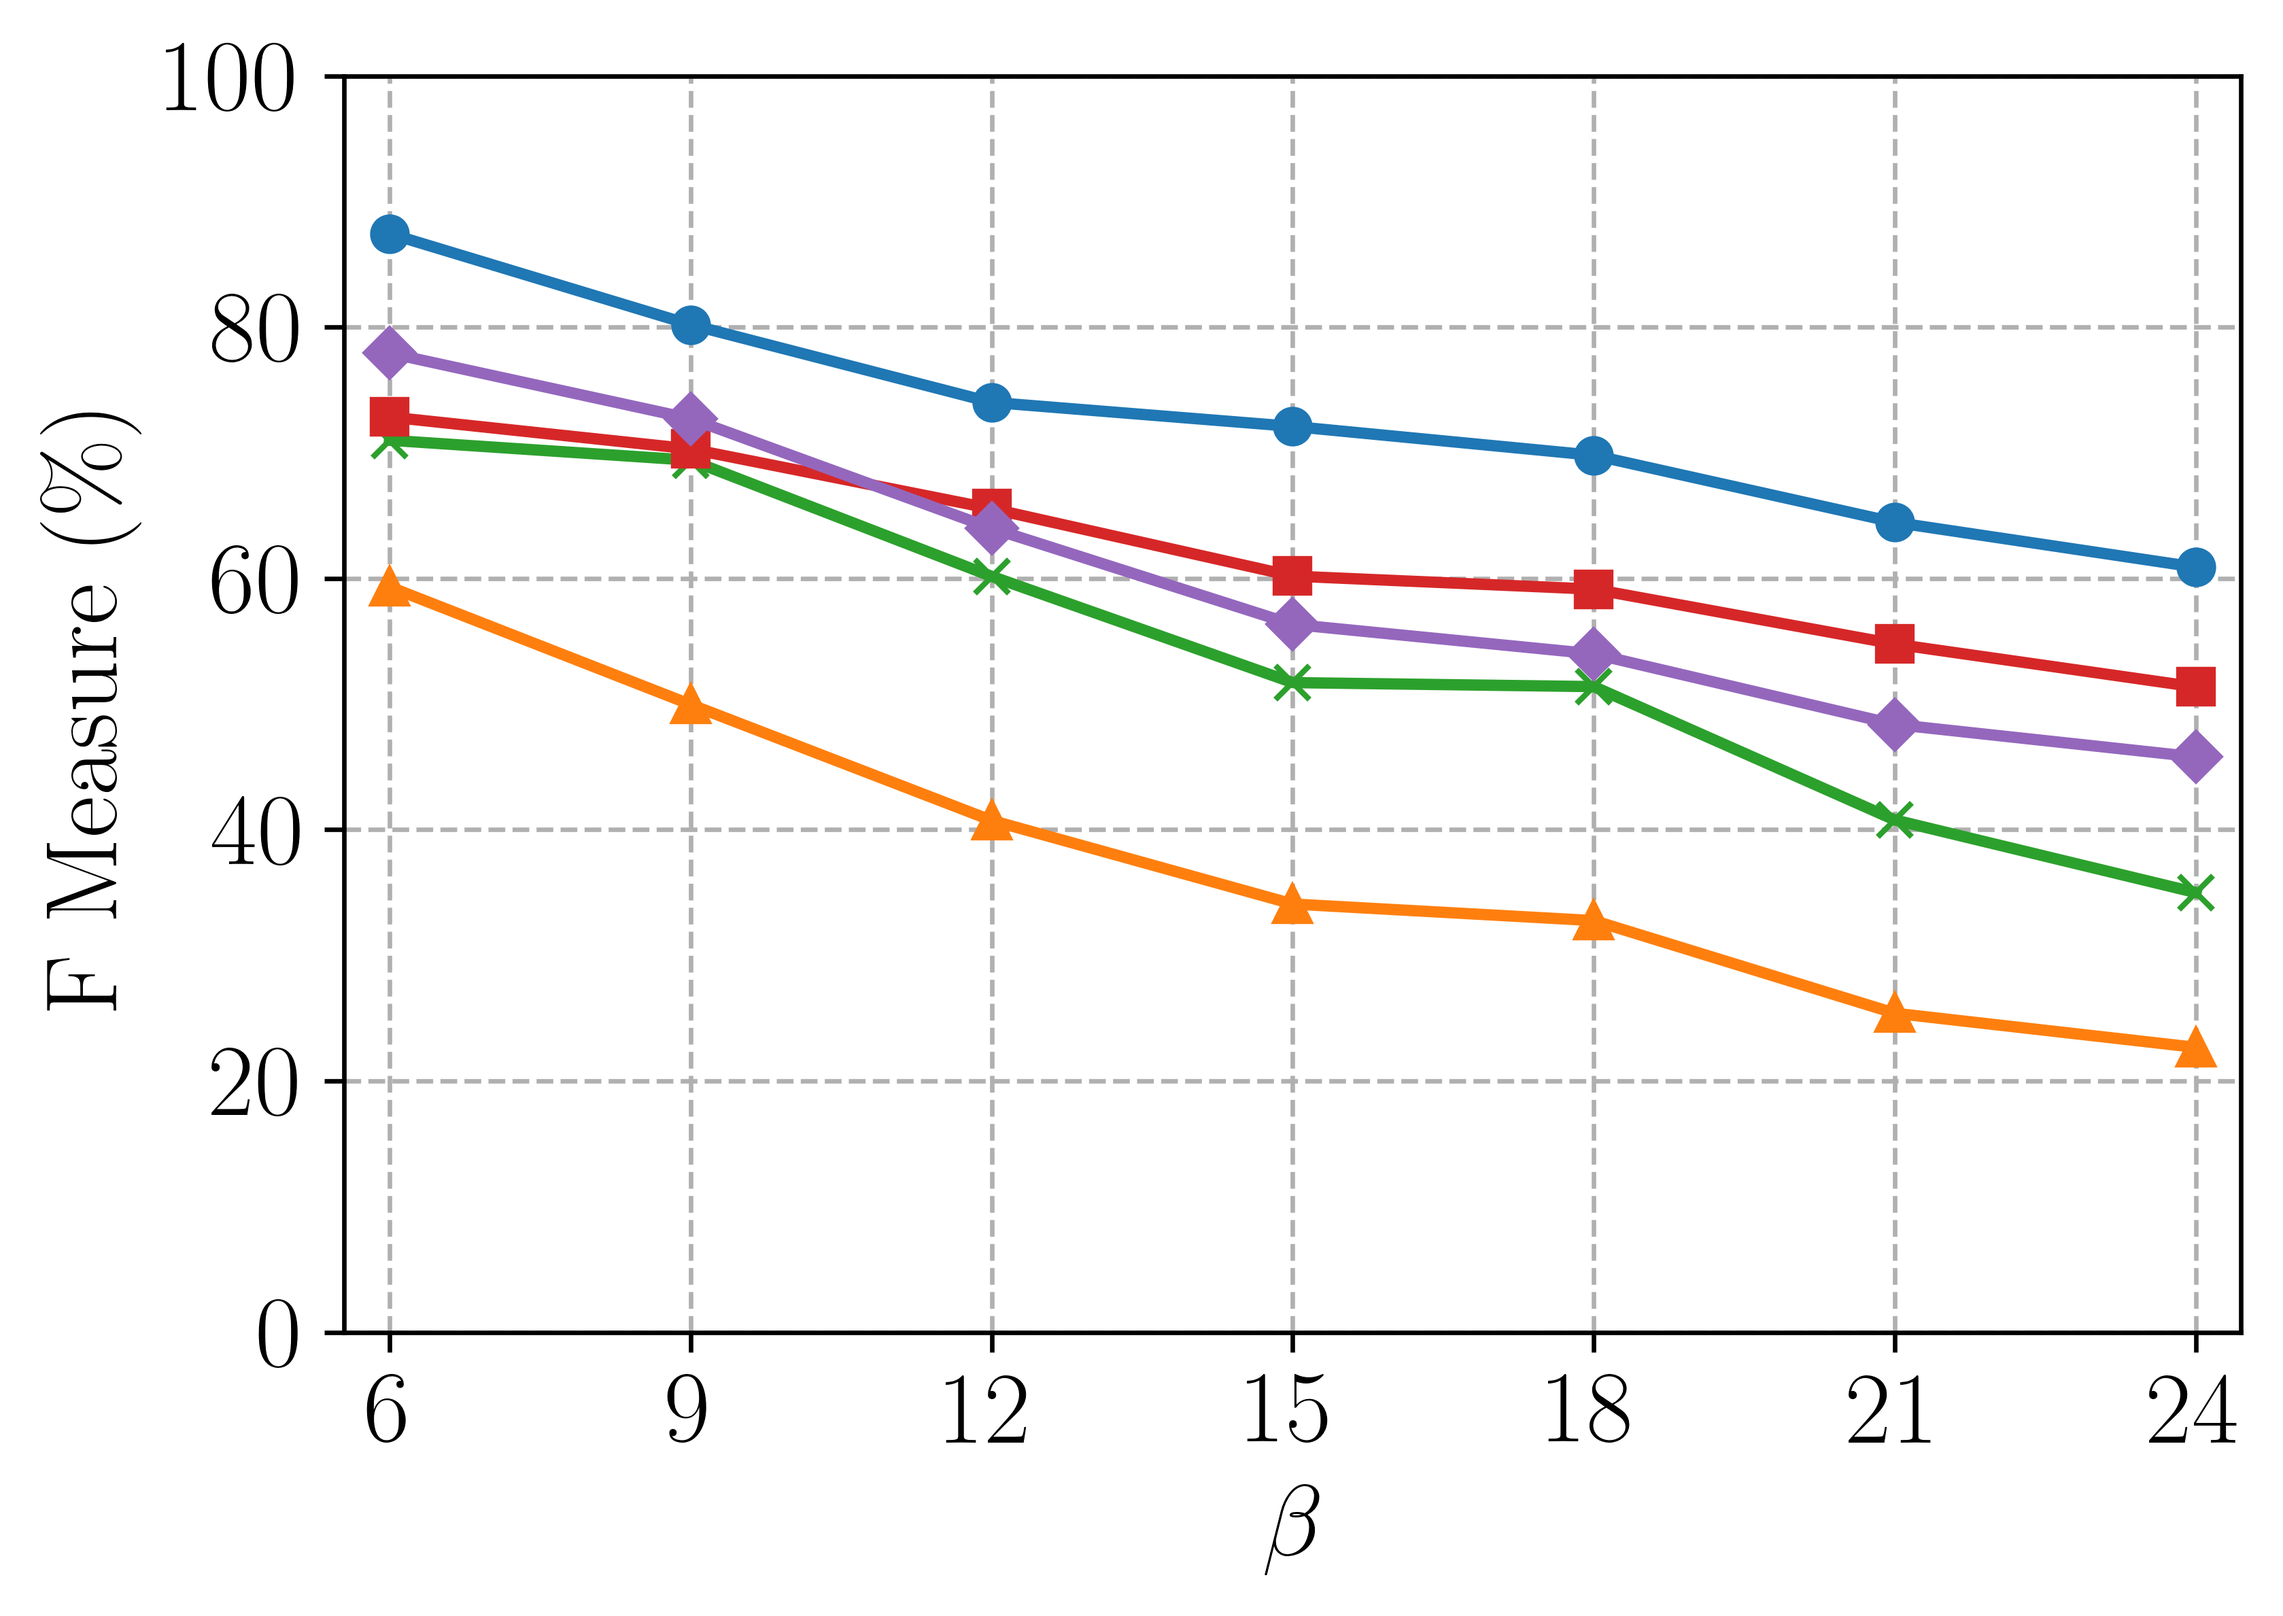
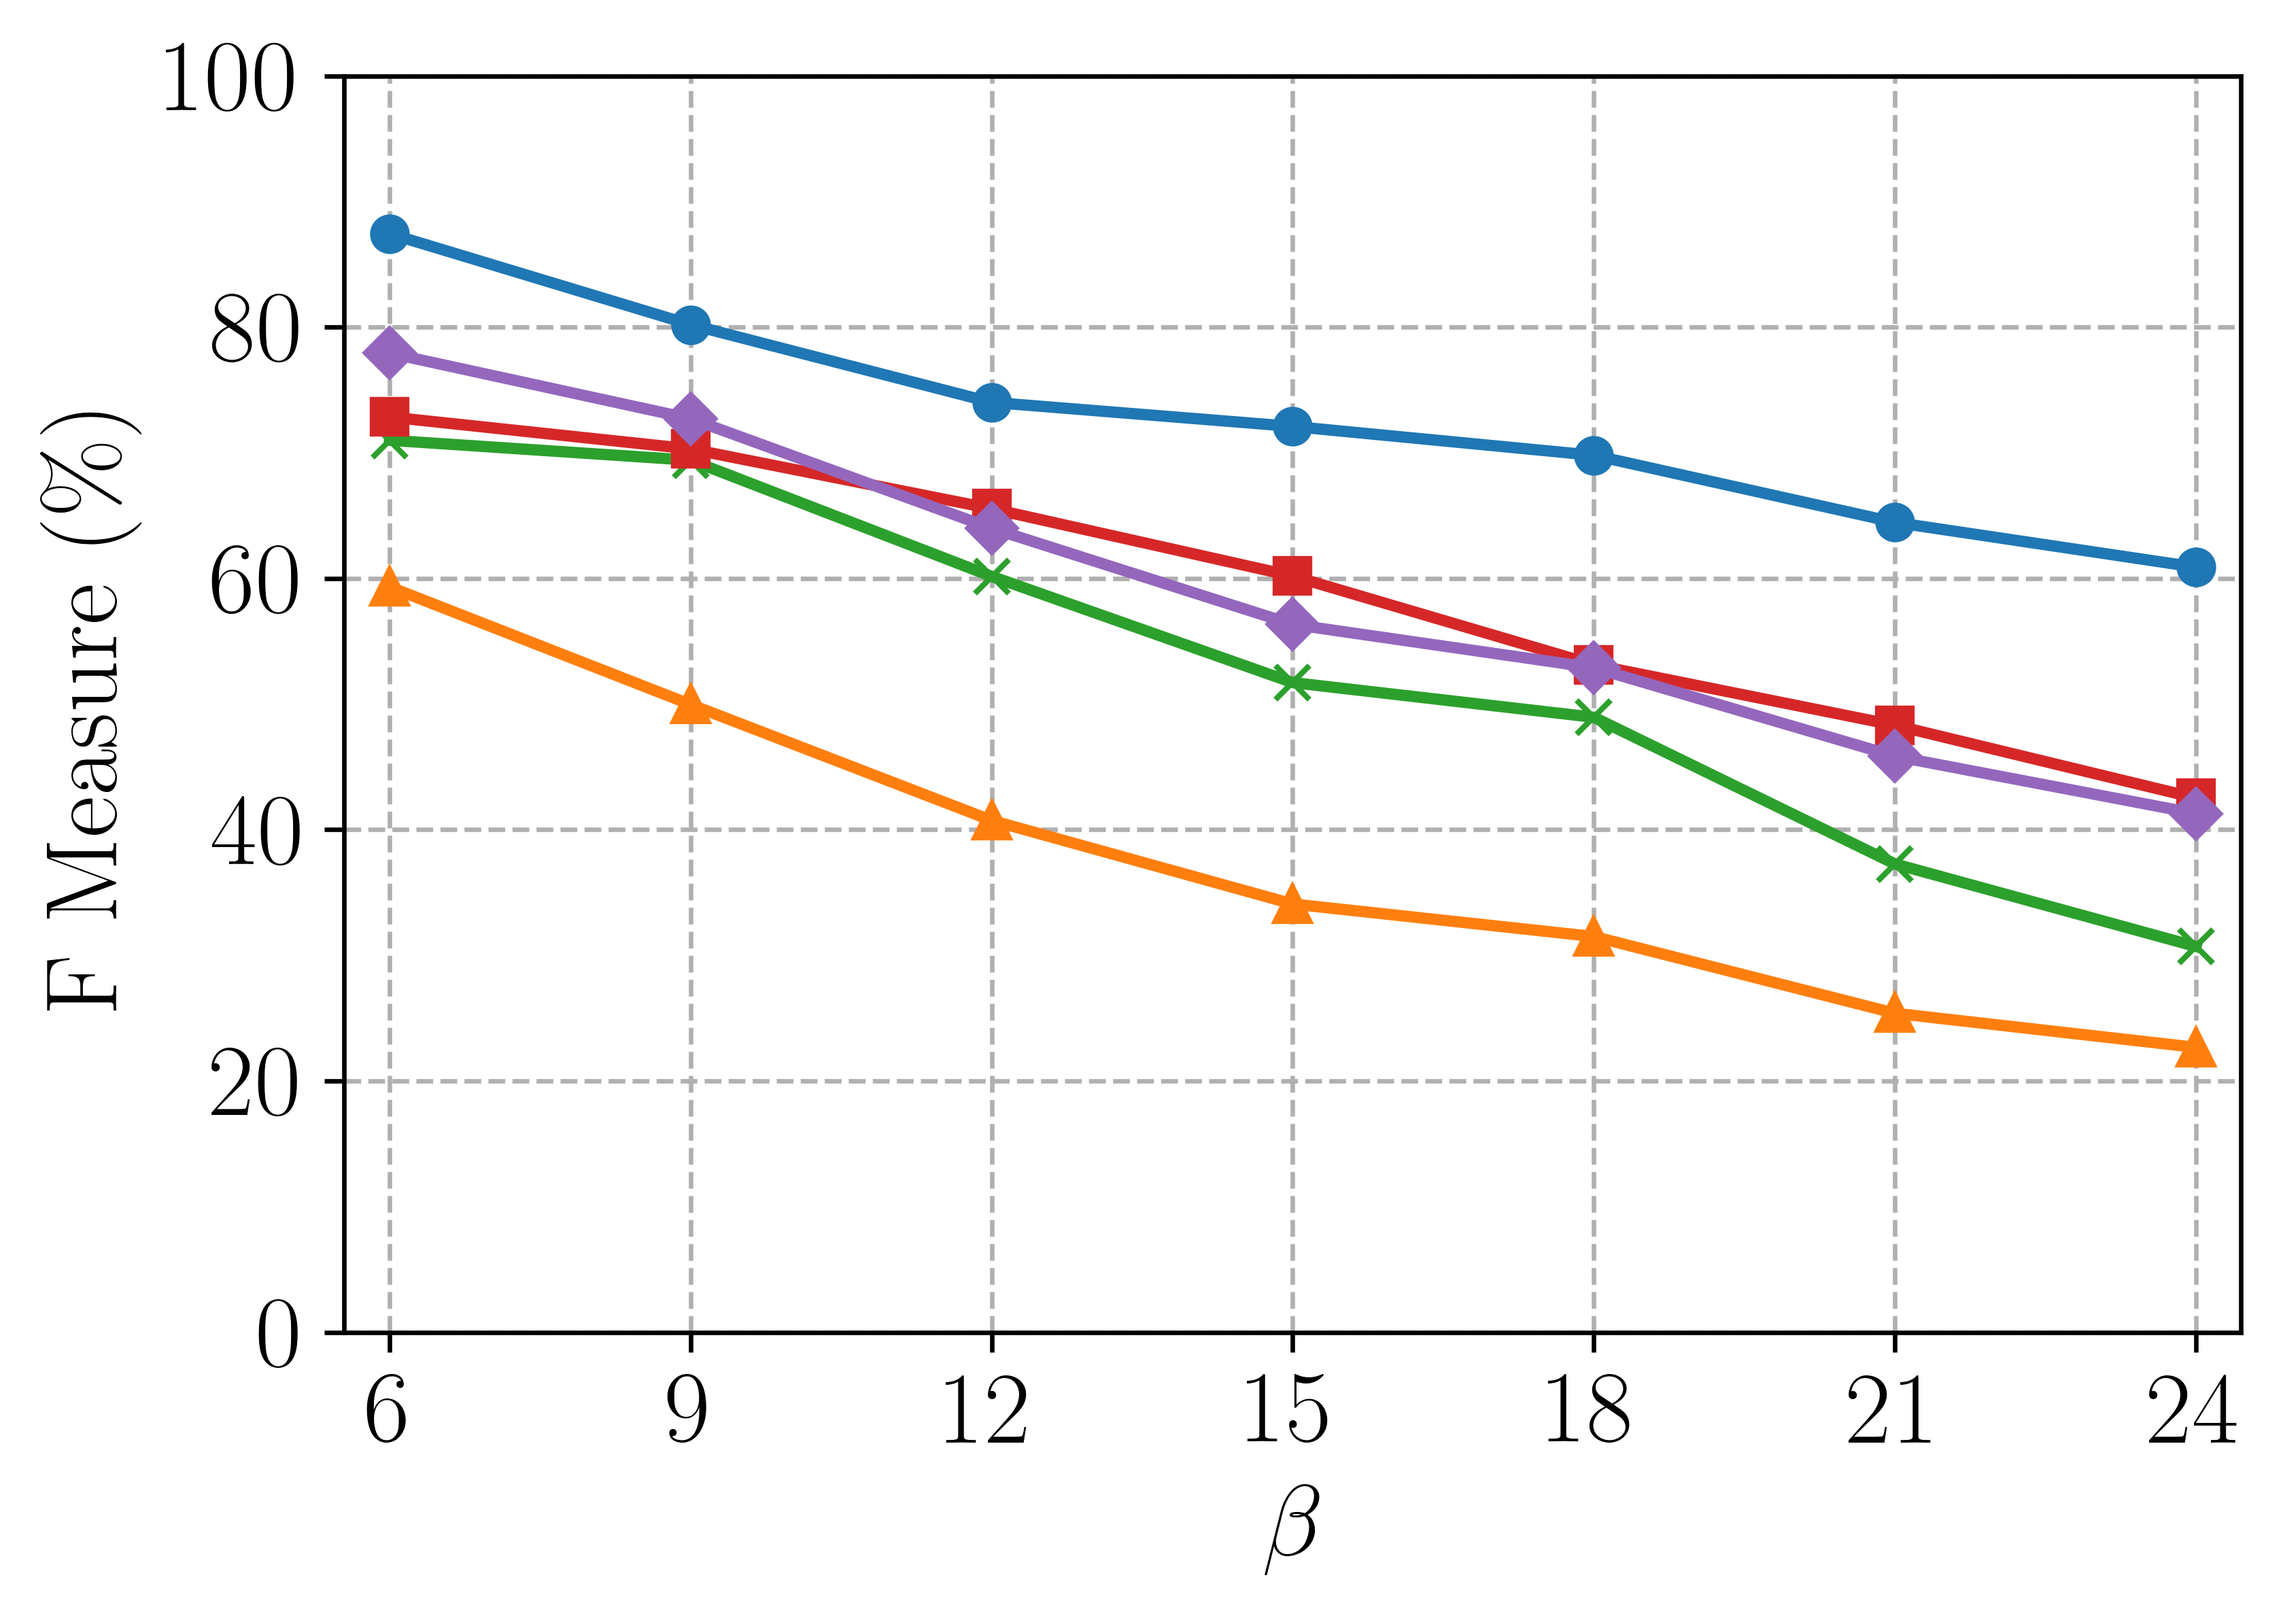
adjusted

Changed region(s): [[0.5575, 0.3424, 0.9911, 0.5915], [0.5884, 0.5604, 0.7433, 0.5915], [0.7433, 0.5915, 0.8052, 0.6226]]

diff --git a/draw.py b/draw.py
@@ -236,10 +236,10 @@ def main():
     y_pre_beta = np.array(
         [
             [88.2, 80.2, 76.6, 72.1, 69.8, 66.0, 63.5],
-            [63.6, 62.1, 63.0, 51.8, 42.4, 32.1, 29.8],
-            [82.7, 78.2, 69.4, 61.9, 58.7, 54.7, 51.5],
-            [84.2, 78.6, 72.1, 65.6, 62.3, 58.5, 55.1],
-            [89.2, 82.2, 73.6, 66.1, 63.8, 59.0, 56.5],
+            [63.6, 62.1, 63.0, 51.8, 38.4, 32.1, 29.8],
+            [82.7, 78.2, 69.4, 61.9, 52.7, 43.7, 36.5],
+            [84.2, 78.6, 72.1, 65.6, 50.3, 45.5, 38.1],
+            [89.2, 82.2, 73.6, 66.1, 60.8, 52.0, 44.5],
         ]
     )
     y_recall_beta = np.array(
@@ -269,20 +269,20 @@ def main():
     x_beta = np.arange(6, 25, 3)
     y_pre_beta = np.array(
         [
-            [88.2, 80.2, 76.6, 72.1, 69.8, 66.0, 63.5],
-            [63.6, 62.1, 63.0, 51.8, 42.4, 32.1, 29.8],
-            [82.7, 78.2, 69.4, 61.9, 58.7, 54.7, 51.5],
-            [84.2, 78.6, 72.1, 65.6, 62.3, 58.5, 55.1],
-            [89.2, 82.2, 73.6, 66.1, 63.8, 59.0, 56.5],
+            [86.2, 79.2, 77.6, 72.1, 64.8, 62.0, 59.5],
+            [63.6, 60.1, 48.0, 37.8, 30.4, 22.1, 19.8],
+            [80.7, 76.2, 67.4, 59.9, 57.7, 54.7, 51.5],
+            [79.2, 73.6, 67.1, 60.6, 57.3, 53.5, 50.1],
+            [84.2, 80.2, 73.6, 66.1, 63.8, 59.0, 56.5],
         ]
     )
     y_recall_beta = np.array(
         [
-            [86.7, 80.2, 71.6, 72.1, 69.8, 63.0, 58.5],
-            [55.6, 41.8, 30.1, 25.4, 26.7, 21.0, 18.3],
-            [62.2, 62.4, 53.1, 44.4, 45.7, 32.5, 26.5],
-            [64.2, 63.6, 60.1, 55.6, 56.3, 51.5, 48.1],
-            [69.2, 65.2, 56.6, 49.1, 46.8, 41.0, 38.5],
+            [86.7, 70.2, 61.6, 62.1, 59.8, 53.0, 48.5],
+            [55.6, 31.8, 20.1, 15.4, 10.7, 6.0, 3.3],
+            [62.2, 52.4, 43.1, 29.4, 26.8, 11.0, 8.5],
+            [64.2, 53.6, 40.1, 35.6, 36.3, 31.5, 28.1],
+            [69.2, 55.2, 46.6, 34.1, 35.7, 22.5, 16.5],
         ]
     )
     occ_plots = generate_plots_data(
